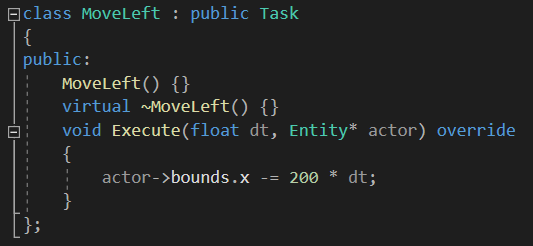
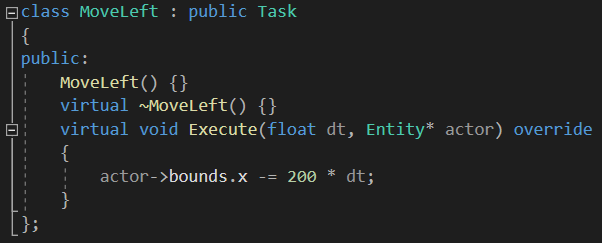
content added to webpage

diff --git a/docs/index.html b/docs/index.html
@@ -88,13 +88,50 @@
 								<header class="major">
 									<h2>Pattern Used</h2>
 									<p>The most common pattern to do a task queue is the Command pattern.<br />
-									A command is a <i> reified method call.</i> <br />
-									"Reify" means "make real", or making something "first-class".<br />
-									So we are talking about taking some <i>concept</i> and turning it into a piece of <i>data</i>, therefore, an object, which you can stick in a variable, pass to a function, etc.<br />
-									In conclusion, it is a method call wrapped in an object.
+										A command is a <i> reified method call.</i> <br />
+										"Reify" means "make real", or making something "first-class".<br />
+										So we are talking about taking some <i>concept</i> and turning it into a piece of <i>data</i>, therefore, an object, which you can stick in a variable, pass to a function, etc.<br />
+										In conclusion, it is a method call wrapped in an object.
 									</p>
-									<br />
+									
+									<p>Imagine we configure the inputs from our game like this:
+									</p>
+									<img src="images/basic_input.png" /><br />
+
+									<p>This chunck of code works if we want to "hardcode" the user inputs, but nowadays, many games let the user change the buttons mapping.<br />
+									if we want to do that, we need to wrap those function calls into something we can swap out.
+									So let's create an object that does or represent the action.<br />
+									This is where the Command party joins us.<br /><br />
+									First of all, we need a base class:
+									</p>
+									<img src="images/command_base_class.png"/><br />
+
+									<p>Then, we create the subclasses for the different game actions:
+									</p>
+									<img src="images/command_subclasses.png"/>
+
+									<p>So, in the input handler -or where is better to you- we store a pointer to a command for each button and we call it when the user presses a button.
+									</p>
+									<img src="images/command_execute_call.png"/>
+
+									<p>We can also change the actor of the actions, by passing an entity as a parameter.
+									</p>
+									<img src="images/command_execute_actor.png"/>
+									
+									<p>Then, we change the <code>HandleInput()</code> function so it returns a Command
+									</p>
+									<img src="images/command_handleinput_return.png"/>
+
+									<p>As you could see, it can not execute the command immediately since it does not know what actor is going to do it.
+									We can see that as an advantage, and delay the execution call.<br />
+									Then, we need some code to take that command and runs it on the actor.
+									</p>
+									<img src="images/command_take_command.png"/>
+
+									<p><br />Finally, here is a UML to see how the Command pattern works:
+									</p>
 									<img src="images/command_pattern_uml.png" width="500"/>
+
 								</header>
 							</section>
 
@@ -148,6 +185,10 @@
 								</h3>
 								<img src="images/task_manager_execute_tasks.png"/>
 								<p><br /></p>
+
+								<h3>You can also take profit of the Command pattern and redefine the keys. You, for example, can swap the directions in the axis
+								</h3>
+								<img src="images/redefine_keys.png"/>
 
 								<footer class="major">
 									<ul class="actions special">

diff --git a/Handout/Game/Source/Task.h b/Handout/Game/Source/Task.h
@@ -8,7 +8,7 @@ public:
 	Task() {}
 	virtual ~Task() {}
 	
-	virtual void Execute(float dt, Entity* actor) {}
+	virtual void Execute(float dt, Entity* actor) = 0;
 };
 
 class MoveLeft : public Task
@@ -16,7 +16,7 @@ class MoveLeft : public Task
 public:
 	MoveLeft() {}
 	virtual ~MoveLeft() {}
-	void Execute(float dt, Entity* actor) override
+	virtual void Execute(float dt, Entity* actor) override
 	{
 		actor->bounds.x -= 200 * dt;
 	}
@@ -27,7 +27,7 @@ class MoveRight : public Task
 public:
 	MoveRight() {}
 	virtual ~MoveRight() {}
-	void Execute(float dt, Entity* actor) override
+	virtual void Execute(float dt, Entity* actor) override
 	{
 		actor->bounds.x += 350 * dt;
 	}
@@ -38,7 +38,7 @@ class MoveUp : public Task
 public:
 	MoveUp() {}
 	virtual ~MoveUp() {}
-	void Execute(float dt, Entity* actor) override
+	virtual void Execute(float dt, Entity* actor) override
 	{
 		actor->bounds.y -= 200 * dt;
 	}
@@ -49,7 +49,7 @@ class MoveDown : public Task
 public:
 	MoveDown() {}
 	virtual ~MoveDown() {}
-	void Execute(float dt, Entity* actor) override
+	virtual void Execute(float dt, Entity* actor) override
 	{
 		actor->bounds.y += 350 * dt;
 	}

diff --git a/Solution/Game/Source/Task.h b/Solution/Game/Source/Task.h
@@ -8,7 +8,7 @@ public:
 	Task() {}
 	virtual ~Task() {}
 	
-	virtual void Execute(float dt, Entity* actor) {}
+	virtual void Execute(float dt, Entity* actor) = 0;
 };
 
 class MoveLeft : public Task
@@ -16,7 +16,7 @@ class MoveLeft : public Task
 public:
 	MoveLeft() {}
 	virtual ~MoveLeft() {}
-	void Execute(float dt, Entity* actor) override
+	virtual void Execute(float dt, Entity* actor) override
 	{
 		actor->bounds.x -= 200 * dt;
 	}
@@ -27,7 +27,7 @@ class MoveRight : public Task
 public:
 	MoveRight() {}
 	virtual ~MoveRight() {}
-	void Execute(float dt, Entity* actor) override
+	virtual void Execute(float dt, Entity* actor) override
 	{
 		actor->bounds.x += 350 * dt;
 	}
@@ -38,7 +38,7 @@ class MoveUp : public Task
 public:
 	MoveUp() {}
 	virtual ~MoveUp() {}
-	void Execute(float dt, Entity* actor) override
+	virtual void Execute(float dt, Entity* actor) override
 	{
 		actor->bounds.y -= 200 * dt;
 	}
@@ -49,7 +49,7 @@ class MoveDown : public Task
 public:
 	MoveDown() {}
 	virtual ~MoveDown() {}
-	void Execute(float dt, Entity* actor) override
+	virtual void Execute(float dt, Entity* actor) override
 	{
 		actor->bounds.y += 350 * dt;
 	}

diff --git a/Solution/Game/Source/TaskManager.cpp b/Solution/Game/Source/TaskManager.cpp
@@ -61,7 +61,6 @@ bool TaskManager::EnqueueTask(Task* task)
 Task* TaskManager::HandleInput()
 {
 	// TODO 2: Check if W,A,S or D is pressed to move the player, and return the corresponding task
-
 	if (app->input->GetKey(SDL_SCANCODE_W) == KEY_REPEAT) return keyW;
 	if (app->input->GetKey(SDL_SCANCODE_A) == KEY_REPEAT) return keyA;
 	if (app->input->GetKey(SDL_SCANCODE_S) == KEY_REPEAT) return keyS;
@@ -69,9 +68,6 @@ Task* TaskManager::HandleInput()
 
 	if (app->input->GetKey(SDL_SCANCODE_E) == KEY_DOWN)
 	{
-		// TODO 6: Redefine the keys so the horizontal axis is swapped.
-		//		   Do the same with the vertical axis.
-
 		// Horizontal axis
 		Task* aux = keyA;
 		keyA = keyD;
